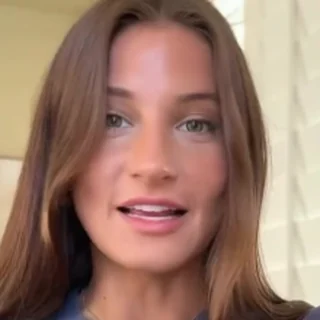
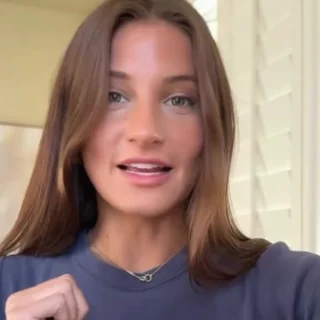
Shoulders on Grace, the follower count off Dave
The 220 crop had her cropped at the collarbone, which on a stranger's
face at any size reads closer than it should. 280 at (20,6) brings the
shirt and shoulders in, so it is a portrait rather than a close-up.

"72K on Instagram" comes off the role line. A number invites arithmetic
about whether it is a big number; "Apple Watch YouTuber" just says who
he is, which is the job.

Dave's game-changer line is back, and Draftish gets his second too, so
the .also rule returns with them. Dave now reads as what it is and then
how much he likes it, which is the order those two were always in.

Draftish's line is "It's my new favorite" on Bryce's word — I could not
find a source. Search returns nothing for the channel (1.17K subscribers
is below the indexing line) and YouTube will not hydrate in the browser
pane, so the Professor credential is unverified too. Both rest on Bryce
knowing him.

Spelling: favourite to favorite, since he is American. The remaining
British spellings in the file are all inside comments.

diff --git a/get.html b/get.html
@@ -243,6 +243,7 @@
       box-shadow: 0 0 0 1px rgba(255, 255, 255, .18);
     }
     .says-top cite { margin-bottom: 0; }
+    .says .also { margin-top: 8px; color: var(--muted); }
     .says-who { min-width: 0; }
     /* Who they are, so a stranger knows why the quote counts. Not every
        card has one; a card without is better than a credential invented
@@ -576,10 +577,11 @@
                  loading="lazy" decoding="async" alt="" />
             <div class="says-who">
               <cite>AppleWatchDave</cite>
-              <span class="says-role">Apple Watch YouTuber &middot; 72K on Instagram</span>
+              <span class="says-role">Apple Watch YouTuber</span>
             </div>
           </div>
           <q>It looks like a battery, but this is actually IRL Health Bar&hellip; it sums up all your health metrics into one simple bar.</q>
+          <q class="also">A massive game changer &mdash; and I'm using it all the time.</q>
         </li>
         <li>
           <div class="says-top">
@@ -591,6 +593,7 @@
             </div>
           </div>
           <q>Your health data turned into one glanceable bar &mdash; like a health bar in a game.</q>
+          <q class="also">It&rsquo;s my new favorite.</q>
         </li>
         <li>
           <div class="says-top">
